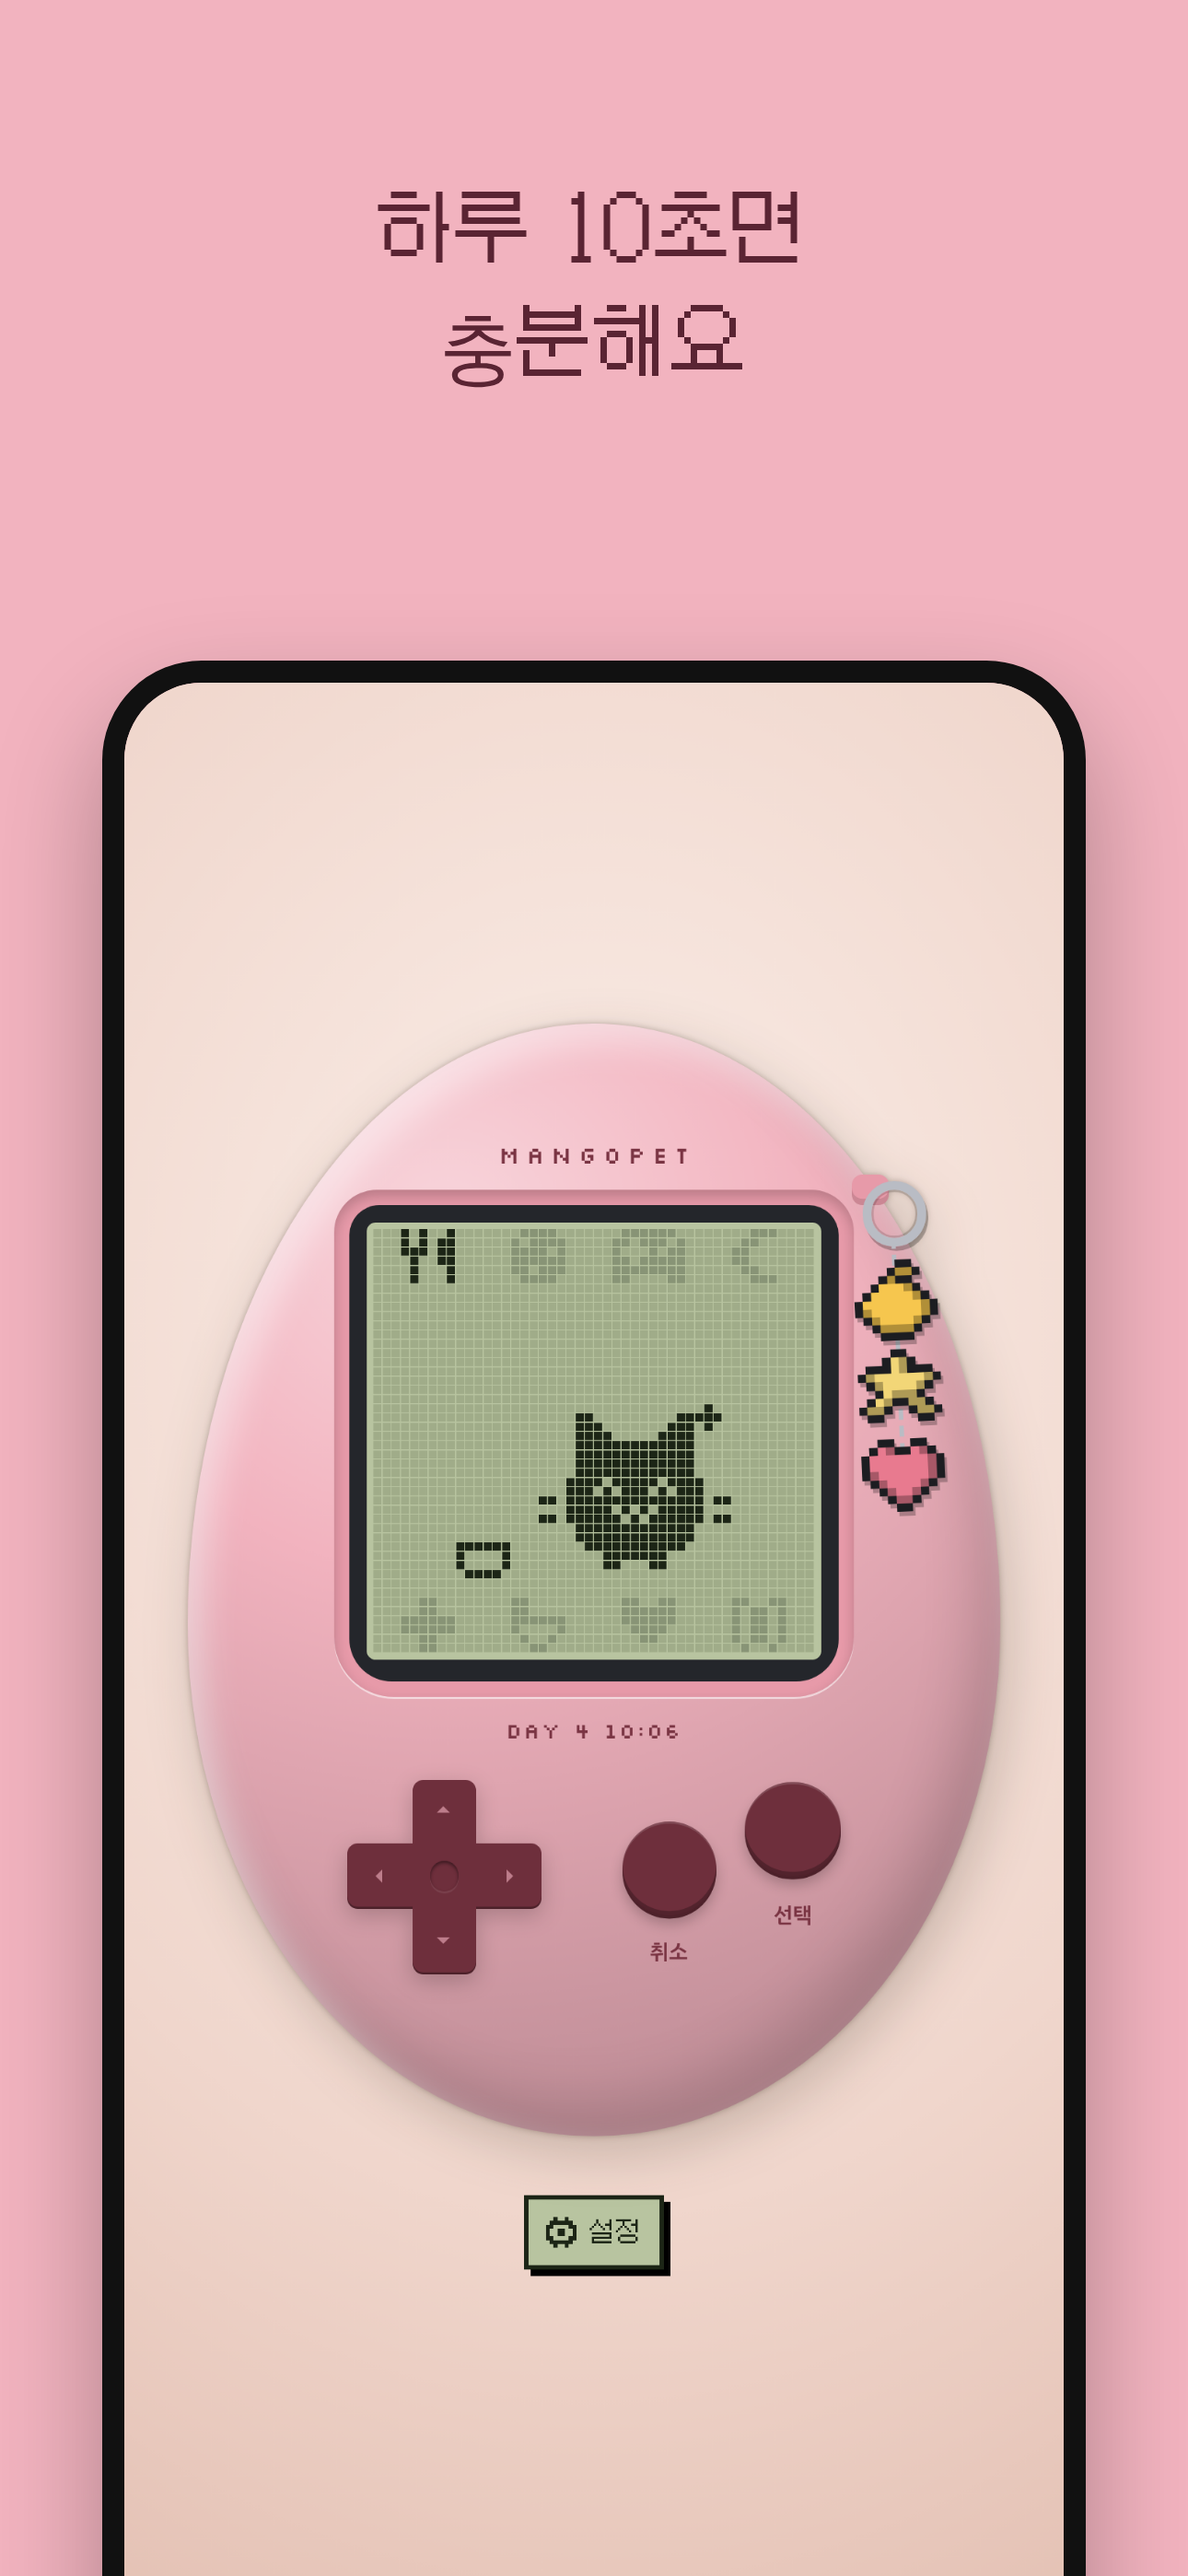
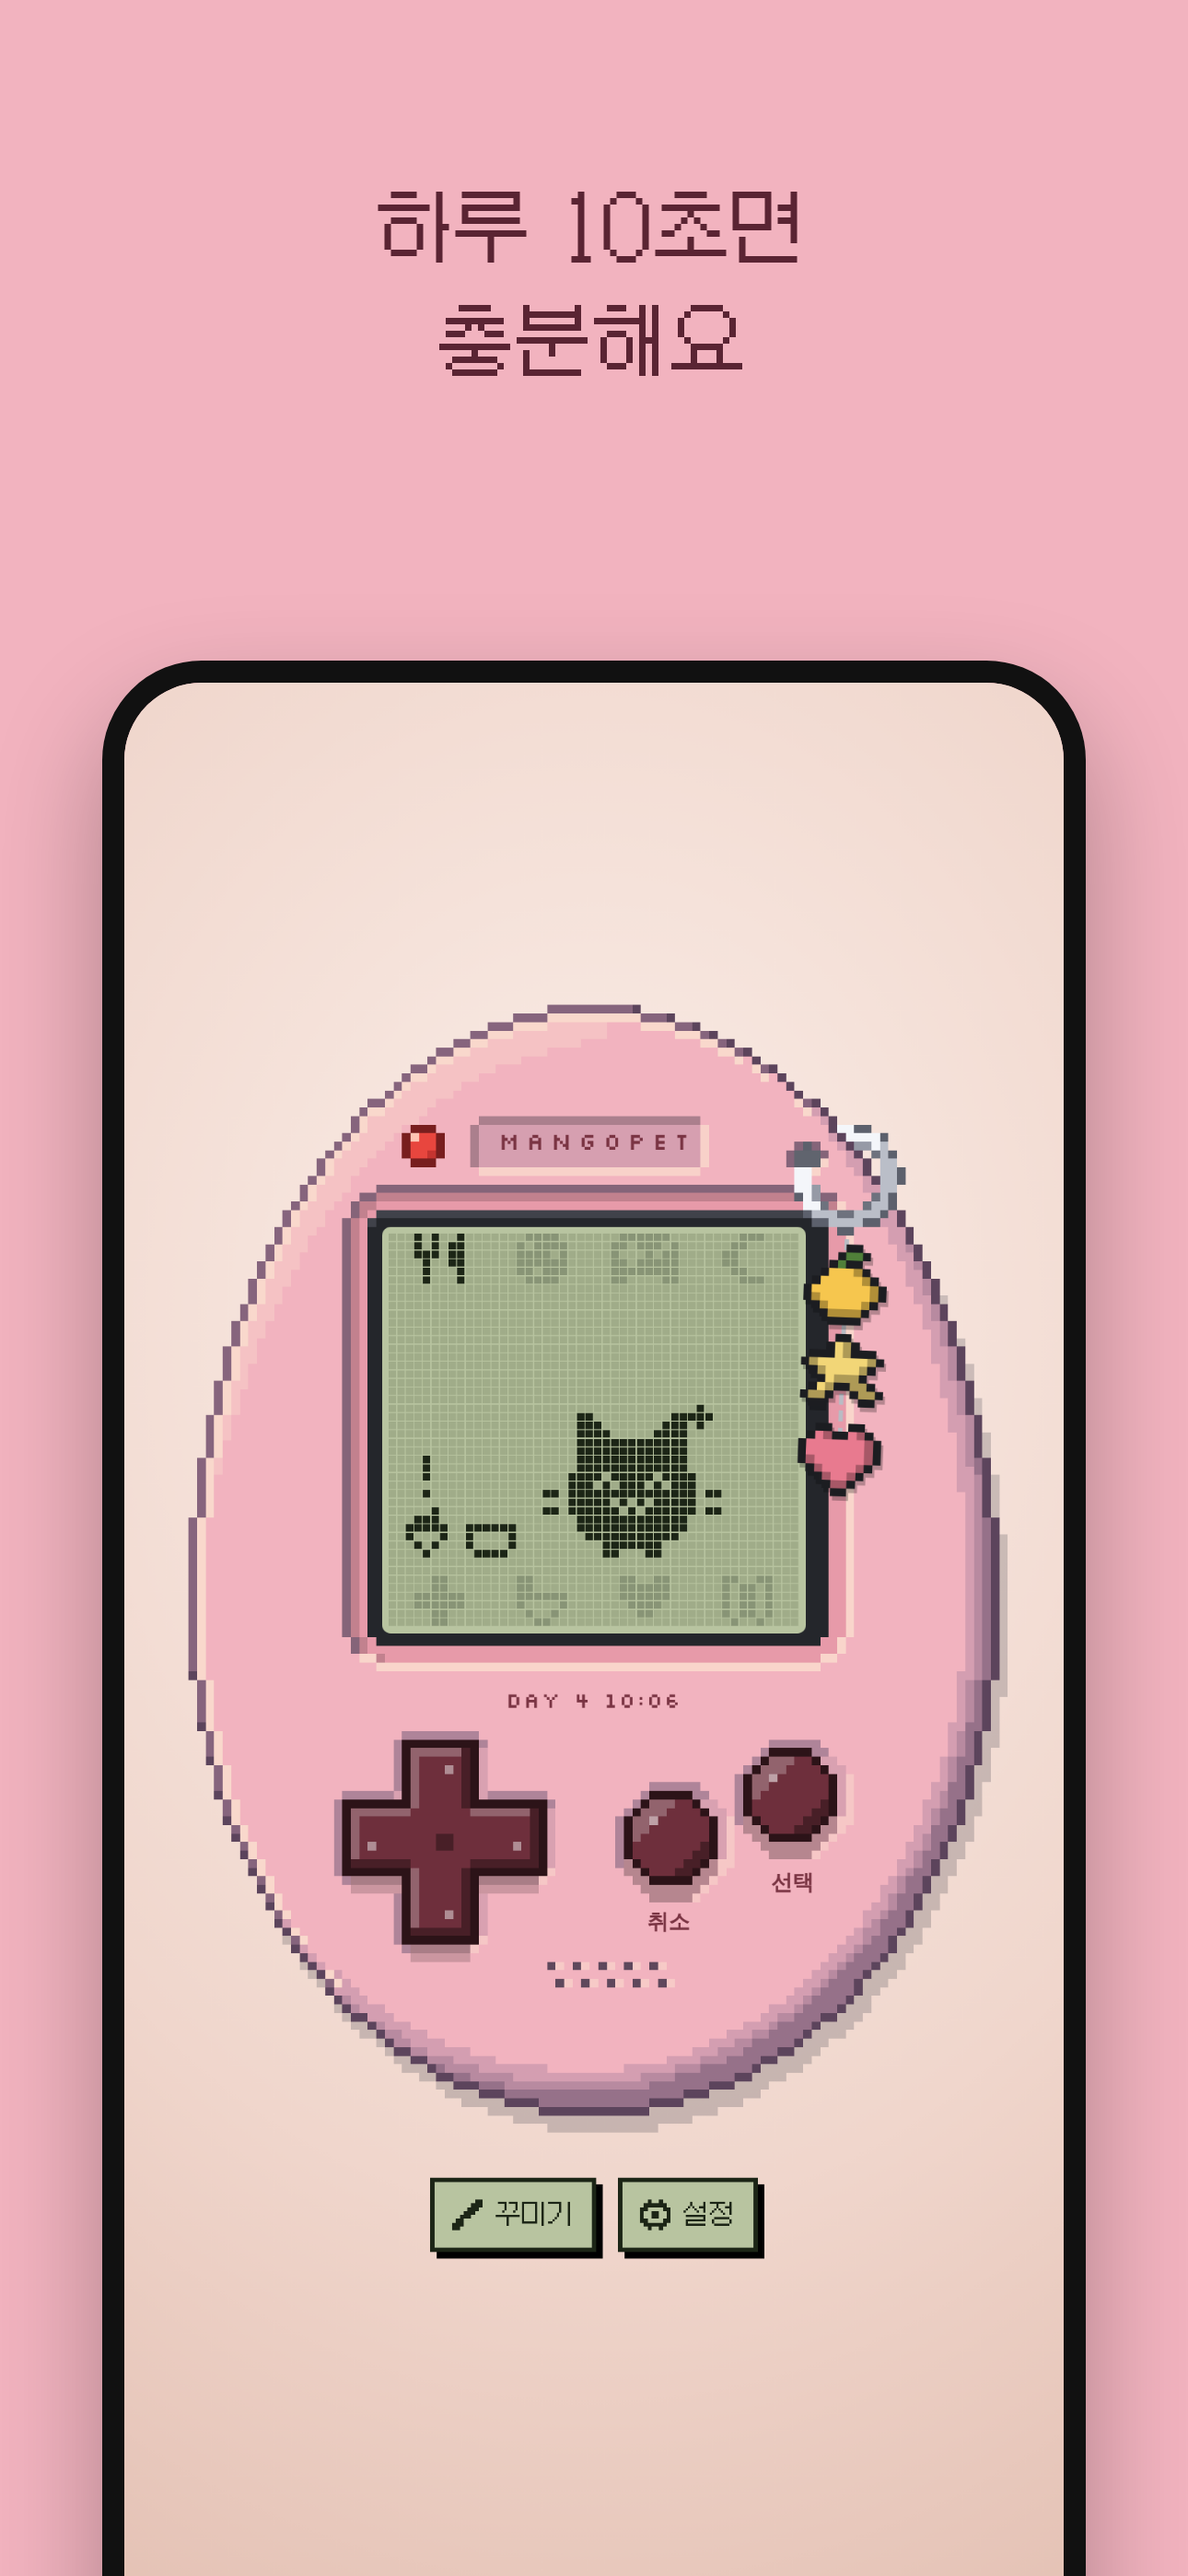
출시 모드로: 테스트 모드 끄고 스토어 스크린샷 새로
capacitor.config.json의 server.url을 지워 앱이 안에 든 app/www로 돈다(애플은 밖에서 게임을
불러오는 앱을 거절할 수 있음). offline.html은 이제 필요 없어 안 만든다. docs/app.html은 예전
테스트 빌드용으로 남김. 스크린샷 문구를 키링 30종·미니게임 5종으로, 소식 창이 덮지 않게.

Claude-Session: https://claude.ai/code/session_016RoijJanbM29VgmJcCj5nJ

Changed region(s): [[0.155, 0.3734, 0.8682, 0.9024], [0.3721, 0.1245, 0.4341, 0.1556]]

diff --git a/tools/store.js b/tools/store.js
@@ -5,20 +5,20 @@ const {chromium}=require('playwright');const fs=require('fs'),path=require('path
 const ROOT=path.join(__dirname,'..'),RAW=path.join(ROOT,'.out','store'),OUT=path.join(ROOT,'assets','store'),TMP=path.join(ROOT,'docs','_store.html');
 fs.mkdirSync(RAW,{recursive:true});fs.mkdirSync(OUT,{recursive:true});
 const page=fs.readFileSync(path.join(ROOT,'docs','index.html'),'utf8');
-fs.writeFileSync(TMP,page.replace('/* ---------- boot ---------- */','window.__dp={get g(){return g},E,ui,advance,act,newPet,hatch,GAMES,openZoom,drawCharms,banner};\n/* ---------- boot ---------- */'));
+fs.writeFileSync(TMP,page.replace('/* ---------- boot ---------- */','window.__dp={get g(){return g},E,ui,advance,act,newPet,hatch,GAMES,openZoom,drawCharms,banner,talkCancel};\n/* ---------- boot ---------- */'));
 const FACE=page.match(/@font-face\{font-family:'Galmuri11'[^\n]*\n/)[0];
 // grow a pet to an adult in the morning, with three charms on the keyring
 const GROW=`const D=window.__dp,g=D.g;g.speed=0;D.newPet('relaxed');D.advance(6);if(g.phase==='egg')D.hatch();
   for(let i=0;i<400&&!(g.stage==='adult'&&D.E.localHour(g)===10);i++){D.advance(30);Object.assign(g,{hunger:4,happy:4,poops:0,sick:false,tummy:false,starveMin:0,sickMin:0,lights:true})}
-  g.charms=['mango','star','heart','sun'];g.equip=['mango','star','heart'];D.drawCharms();D.ui.anim=null;D.ui.view='main';g.lights=true;g.sleeping=false;`;
+  g.charms=['mango','star','heart','sun'];g.equip=['mango','star','heart'];D.drawCharms();D.ui.anim=null;D.ui.view='main';g.lights=true;g.sleeping=false;D.talkCancel();`;  // no "소식이 N개" box over the shot
 const SCENES=[
   {name:'1-egg',head:'알을 톡톡,\n내 펫을 깨워요',bg:'#f6c64e',ink:'#463414',save:{skin:'classic',bg:'beige',intro:'case'},wait:900,
     js:`const D=window.__dp;D.g.speed=0;document.querySelector('[data-intronext=life]').click();document.querySelector('[data-intronext=egg]').click();D.g.cracks=2;`},
   {name:'2-meal',head:'하루 10초면\n충분해요',bg:'#f2b3bf',ink:'#5a2433',save:{skin:'berry',bg:'peach'},wait:500,js:GROW+`g.species='sun_cat';g.hunger=1;D.act('meal');`},
   {name:'3-dex',head:'24종 + 반짝이,\n도감을 채워요',bg:'#a6dccb',ink:'#1f4a3d',save:{skin:'mint',bg:'mint'},wait:700,
     js:GROW+`['sun_cat','moon_bear','chub_frog','wild_rabbit','sun_penguin','moon_chick','chub_cat','sun_bear','moon_rabbit','chub_penguin','sun_frog'].forEach((k,i)=>g.dex[k]={seen:true,grad:i%3?1:0,best:i%3?(i%2?2:1):0});D.openZoom('dex','chub_frog');`},
-  {name:'4-deco',head:'키링 21종,\n나만의 기기로',bg:'#cfe0ea',ink:'#24384a',save:{skin:'banana',bg:'sky'},wait:700,js:GROW+`g.species='moon_bear';D.openZoom('charm');`},
-  {name:'5-run',head:'미니게임 4종,\n기록에 도전!',bg:'#dcd5ea',ink:'#352a50',save:{skin:'classic',bg:'lilac'},wait:120,
+  {name:'4-deco',head:'키링 30종,\n나만의 기기로',bg:'#cfe0ea',ink:'#24384a',save:{skin:'banana',bg:'sky'},wait:700,js:GROW+`g.species='moon_bear';D.openZoom('charm');`},
+  {name:'5-run',head:'미니게임 5종,\n기록에 도전!',bg:'#dcd5ea',ink:'#352a50',save:{skin:'classic',bg:'lilac'},wait:120,
     js:GROW+`g.species='wild_cat';const G=D.GAMES.run.start({id:'run',wins:0,until:0});G.dist=4*128;G.t0-=9000;G.next=1e15;G.obs.push({x:30,w:3,h:3,y:28});G.jumpAt=performance.now()-300;D.ui.game=G;`},
   {name:'6-notif',head:'필요할 때만\n살짝 알려 줘요',bg:'#3a3d44',ink:'#f3eee6',save:{skin:'smoke',bg:'night'},wait:500,banner:true,
     js:GROW+`g.species='chub_penguin';g.hunger=0;g.poops=1;D.banner('🍙 배고파 · 💩 똥 쌌어');`},
@@ -31,6 +31,8 @@ const SCENES=[
   await p.goto('file://'+TMP);await p.waitForTimeout(1200);
   await p.addStyleTag({content:'.betanote{visibility:hidden!important}'+(S.banner?'':'.notif{display:none!important}')});
   await p.evaluate(new Function(S.js));await p.waitForTimeout(S.wait);
+  // news that queued while growing the pet (new charms, …) would cover the shot: clear it, keep a scene's own banner
+  if(S.name!=='1-egg')await p.evaluate(b=>{window.__dp.talkCancel();if(b)window.__dp.banner('🍙 배고파 · 💩 똥 쌌어')},!!S.banner);await p.waitForTimeout(150);
   const raw=path.join(RAW,S.name+'.png');await p.screenshot({path:raw});
   // frame: headline in the game font, the screen below in a phone outline
   await p.close();const f=await ctx.newPage();

diff --git a/tools/build.py b/tools/build.py
@@ -147,18 +147,6 @@ def document(frag, pwa, fixed=None):
     return head + frag[t:te] + '\n</head><body>\n' + frag[te:] + tail + '\n</body></html>\n'
 
 
-# shown by the app when it cannot reach GitHub Pages (capacitor.config.json server.errorPath)
-OFFLINE = """<!doctype html>
-<html lang="ko"><head><meta charset="utf-8"><meta name="viewport" content="width=device-width,initial-scale=1,viewport-fit=cover">
-<title>망고펫</title>
-<style>html,body{margin:0;height:100%;background:#f3eee6;font-family:-apple-system,sans-serif;color:#3a3326}
-main{height:100%;display:flex;flex-direction:column;align-items:center;justify-content:center;gap:10px;text-align:center;padding:24px;box-sizing:border-box}
-b{font-size:17px}p{margin:0;font-size:14px;color:#7a705e}button{margin-top:8px;font:inherit;padding:10px 18px;border-radius:12px;border:0;background:#2c2e33;color:#fff}</style>
-</head><body><main><b>인터넷에 연결되지 않았어요</b><p>테스트 버전은 켤 때 최신 게임을 받아와요.<br>연결된 뒤 다시 열어 주세요.</p>
-<button onclick="location.href='https://aiden-mklee.github.io/mangopet/app.html'">다시 시도</button></main></body></html>
-"""
-
-
 def main():
     if '--no-font' not in sys.argv:
         subset_font()
@@ -175,10 +163,9 @@ def main():
     open(os.path.join(DOCS, 'lab.html'), 'w', encoding='utf-8').write(document(lab(s), pwa=False))
     os.makedirs(os.path.join(ROOT, 'app', 'www'), exist_ok=True)
     open(os.path.join(ROOT, 'app', 'www', 'index.html'), 'w', encoding='utf-8').write(document(native(s), pwa=False, fixed=True))
-    # the same app page is also served from GitHub Pages: while testing, the app loads it from there
-    # (capacitor.config.json server.url), so a push updates the phone without rebuilding in Xcode
+    # the same app page is also served from GitHub Pages: test-mode builds (capacitor.config.json server.url) load it from
+    # there. The store build has no server.url and runs app/www; app.html stays so old test installs keep working
     open(os.path.join(DOCS, 'app.html'), 'w', encoding='utf-8').write(document(native(s), pwa=False, fixed=True))
-    open(os.path.join(ROOT, 'app', 'www', 'offline.html'), 'w', encoding='utf-8').write(OFFLINE)
     nm = os.path.join(ROOT, 'node_modules', '@capacitor')
     for src, dst in PLUGINS:
         if os.path.exists(os.path.join(nm, src)):

diff --git a/NEXT.md b/NEXT.md
@@ -11,7 +11,7 @@
 2. **기기 크게 보기** 🙋🤖 → 위쪽 시계 자리를 줄여 기기를 10%쯤 키울지 정하기
 3. **맥에서 다시 설치** 🙋: 플러그인 2개(뒤로 가기·저장 이중화)와 알림 아이콘·시작 화면 색이 들어감 → `cd ~/mangopet` · `git pull` · `npm install` · `npm run ios` → ▶
 4. **🙋 애플 개발자 계정 승인됨 (11-05)** → Xcode 팀을 유료 팀으로 바꿔 다시 설치(이제 1년 유지) · App Store Connect에 앱 만들기(`com.emango.pet`) · TestFlight로 먼저 올려 보기. 구글 계정·테스터 12명, "망고펫" 이름 검색, (선택) 의견 보내기 링크는 남음
-5. **마지막에**: 내보내기로 기록 백업 🙋 → 테스트 모드 끄기 🤖 → 맥에서 Archive·업로드 🙋
+5. **출시 (11-08 시작)**: 테스트 모드 끔 ✅ · 스토어 스크린샷 새로 만듦 ✅(`assets/store/`) → 🙋 내보내기로 기록 백업 → `git pull`·`npm install`·`npm run ios` → Archive·업로드 → App Store Connect에 글·스크린샷 넣고 심사 제출
 6. 출시 뒤: 1.1에 보상형 광고(배너 없음), 그 뒤 결제(사업자등록 후) ⏳
 
 지난 목록(써 보고 의견 줄 것): 미니게임 빠르기, 알림 시각·문구, 꾸밈 잠금 숫자(`UNLOCK`), 시즌 한정 케이스(12월 크리스마스부터), 아이콘 바꾸기·위젯(맥)
@@ -47,10 +47,10 @@
 - [ ] 안드로이드: 업로드 키 만들고(깃에 넣지 않기) 서명된 AAB 빌드, Play 앱 서명 등록
 
 **🤖 할 수 있는 것**
-- [ ] 테스트 모드 끄기: `capacitor.config.json`의 `server` 지우고 `offline.html` 안 만들기 → `npx cap sync`
+- [x] 테스트 모드 끄기: `capacitor.config.json`의 `server` 지우고 `offline.html` 안 만들기
 - [x] 안드로이드 알림 작은 아이콘(흰 망고 `ic_stat_mango`), 안드로이드 12+·iOS 시작 화면 배경 망고 노랑
 - [x] 안드로이드 뒤로 가기: 열린 게 있으면 취소처럼, 없으면 앱을 내림(`@capacitor/app`)
-- [ ] 스토어 스크린샷 다시 만들기(새 게임·주운 것·보석 키링 반영, `node tools/store.js`)
+- [x] 스토어 스크린샷 다시 만들기(키링 30종·미니게임 5종, 소식 창 치움)
 - [x] 오픈소스 라이선스에 AndroidX(Apache 2.0)·Synapse(MIT) 추가
 - [x] 저장을 기기 저장소에도 한 벌 더(`@capacitor/preferences`, 10초마다·앱을 닫을 때). 웹뷰 저장이 비면 되살림, 모든 기록 지우기는 둘 다 지움
 

diff --git a/APP.md b/APP.md
@@ -11,14 +11,13 @@ app/ios/                Xcode 프로젝트 (Swift Package Manager 사용, CocoaP
 app/android/            Android Studio 프로젝트
 ```
 
-## 테스트 모드: 게임을 GitHub Pages에서 불러오기
+## 출시 모드 (2026-11-08부터)
 
-지금 앱은 켤 때마다 `https://aiden-mklee.github.io/mangopet/app.html`에서 최신 게임을 불러옵니다 (`capacitor.config.json`의 `server.url`).
-- 코드를 고쳐 `main`에 올리면, 1~3분 뒤(GitHub Pages 배포) + 최대 10분(캐시) 안에 **앱을 완전히 껐다 켜면** 새 버전입니다. Xcode 다시 빌드가 필요 없습니다.
-- 인터넷이 없으면 `offline.html`("인터넷에 연결되지 않았어요")이 뜹니다.
-- 저장은 GitHub Pages 주소 기준이라, 앱에 들어 있던 예전 버전의 저장과는 따로입니다.
-- **출시 전에는 반드시 되돌립니다**: `capacitor.config.json`에서 `server` 칸을 지우고 `npx cap sync`. 애플은 게임을 밖에서 불러오는 앱을 심사에서 거절할 수 있습니다.
-- Xcode에서 ▶가 필요한 경우: 무료 계정 7일마다, 그리고 앱 껍데기(플러그인, 아이콘, 앱 이름, 이 설정)를 바꿨을 때.
+테스트 모드(`capacitor.config.json`의 `server.url`로 GitHub Pages의 `app.html`을 불러오던 것)를 껐습니다. 앱은 이제 안에 든 `app/www`로 돌아갑니다.
+- 게임을 고치면: `python3 tools/build.py` → `npx cap sync` → Xcode에서 빌드 번호 +1 → Archive → 업로드 → 심사. `main`에 올리는 것만으로는 폰 앱이 바뀌지 않습니다.
+- 저장: 웹뷰 저장 위치가 바뀌어도, 기기 저장소(`@capacitor/preferences`)의 두 번째 사본에서 되살립니다. 그래도 바꾸기 전에는 설정 › 기록 › 내보내기로 백업합니다.
+- `docs/app.html`은 계속 만듭니다. 예전 테스트 빌드가 깔린 폰이 그 주소를 엽니다.
+- 다시 테스트 모드가 필요하면 `capacitor.config.json`에 `"server": {"url": "https://aiden-mklee.github.io/mangopet/app.html"}`를 넣고 `npx cap sync`. 심사에 올리는 빌드에는 절대 넣지 않습니다(애플은 밖에서 게임을 불러오는 앱을 거절할 수 있음).
 
 ## 쓰는 플러그인
 

diff --git a/CLAUDE.md b/CLAUDE.md
@@ -73,7 +73,7 @@
 - `app/www/`는 빌드가 만든다. 화면을 고쳤다면 `python3 tools/build.py` 뒤에 `npx cap sync`로 아이폰·안드로이드 프로젝트에 복사한다. 자세한 건 `APP.md`.
 - 앱에서만 예약 알림을 건다 (`scheduleAhead`/`scheduleSoon`, 엔진의 `forecast`. 앱이 켜져 있는 동안에도 1분마다, 행동할 때마다 다시 예약). 웹에서는 아무 일도 하지 않는다.
 - 이 리눅스 환경에서는 아이폰 빌드를 못 한다. 아이폰 실행은 사용자의 맥에서 한다.
-- **테스트 모드**: 지금 앱은 `capacitor.config.json`의 `server.url`로 GitHub Pages의 `docs/app.html`을 불러온다. 게임만 고친 경우엔 `main`에 올리면 사용자가 앱을 껐다 켜는 것으로 끝난다 (Xcode 불필요). GitHub Pages가 10분 캐시를 허용해서, 앱이 켜질 때 `app.html`을 캐시 없이 다시 받아 `VERSION`이 다르면 새 주소(`?v=`)로 다시 연다. 설정 › 정보의 버전 뒤 6자리로 최신인지 확인할 수 있다. 앱 껍데기(플러그인, 아이콘, 이름, 설정)를 바꿨을 때만 맥에서 `git pull` → `npm run ios` → ▶가 필요하다고 안내한다. 출시 전에는 `server`를 지운다.
+- **출시 모드**(2026-11-08부터): `capacitor.config.json`에 `server`가 없다. 앱은 `app/www`로 돌아서, 게임을 고치면 `main`에 올리는 것과 별개로 맥에서 빌드 번호 +1 → Archive → 업로드 → 심사가 필요하다(`APP.md`). 설정 › 정보의 버전 뒤 6자리로 폰의 빌드가 어느 것인지 알 수 있다. 웹 베타(`docs/`)는 `main`에 올리면 바로 바뀐다.
 
 ## 사용자에게 명령어를 줄 때
 
